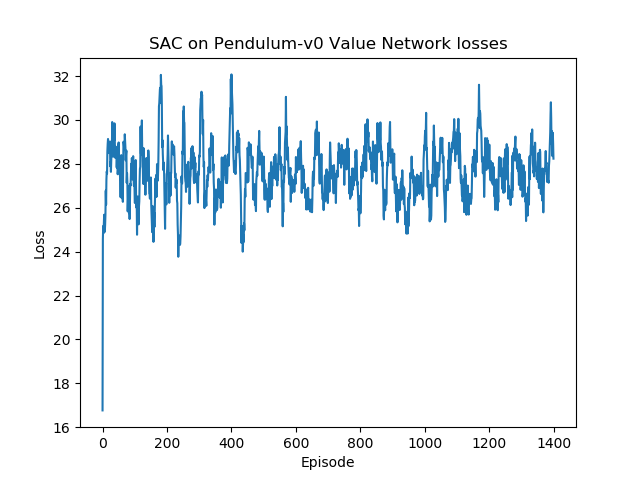
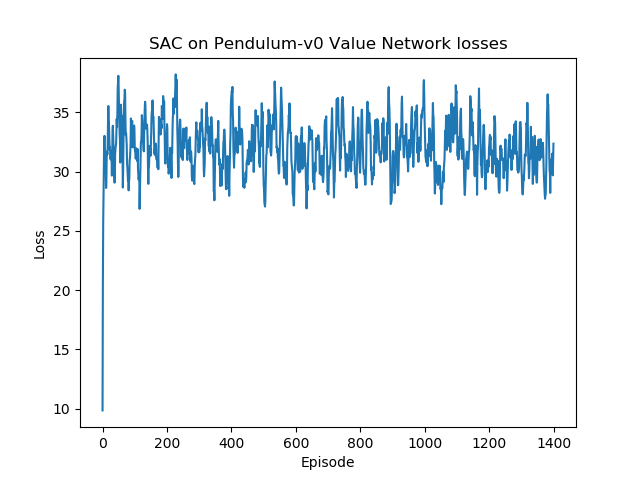
more changes to sac.swift, added script to plot results from different algorithms

diff --git a/sac.swift b/sac.swift
@@ -430,7 +430,7 @@ class SoftActorCritic {
     actionSize: Int,
     critic_lr: Float = 0.0001,
     actor_lr: Float = 0.0001,
-    critic_v_lr: Float = 0.0001,
+    critic_v_lr: Float = 0.00009,
     alpha: Float = 0.2,
     gamma: Float = 0.95) {
       self.actor_network = actor
@@ -452,7 +452,7 @@ class SoftActorCritic {
       self.critic_q1_optimizer = Adam(for: self.critic_q1, learningRate: critic_lr)
       self.critic_q2_optimizer = Adam(for: self.critic_q2, learningRate: critic_lr)
       self.critic_v_optimizer = Adam(for: self.critic_v_network, learningRate: critic_v_lr)
-      self.replayBuffer = ReplayBuffer(capacity: 2000, combined: true)
+      self.replayBuffer = ReplayBuffer(capacity: 1100, combined: true)
   }
 
   func remember(state: Tensor<Float>, action: Tensor<Float>, reward: Tensor<Float>, next_state: Tensor<Float>, dones: Tensor<Bool>) {
@@ -703,11 +703,11 @@ func evaluate_agent(agent: SoftActorCritic, env: TensorFlowEnvironmentWrapper, n
 let env = TensorFlowEnvironmentWrapper(gym.make("Pendulum-v0"))
 env.set_environment_seed(seed: 1001)
 let max_action: Tensor<Float> = Tensor<Float>(2.0)
-let actor_net: GaussianActorNetwork = GaussianActorNetwork(state_size: 3, action_size: 1, hiddenLayerSizes: [300, 200], maximum_action:max_action)
-let critic_q1: CriticQNetwork = CriticQNetwork(state_size: 3, action_size: 1, hiddenLayerSizes: [300, 200], outDimension: 1)
-let critic_q2: CriticQNetwork = CriticQNetwork(state_size: 3, action_size: 1, hiddenLayerSizes: [300, 200], outDimension: 1)
-let critic_v: CriticVNetwork = CriticVNetwork(state_size: 3, hiddenLayerSizes:[300, 200], outDimension: 1)
-let critic_v_target: CriticVNetwork = CriticVNetwork(state_size: 3, hiddenLayerSizes:[300, 200], outDimension: 1)
+let actor_net: GaussianActorNetwork = GaussianActorNetwork(state_size: 3, action_size: 1, hiddenLayerSizes: [400, 300], maximum_action:max_action)
+let critic_q1: CriticQNetwork = CriticQNetwork(state_size: 3, action_size: 1, hiddenLayerSizes: [400, 300], outDimension: 1)
+let critic_q2: CriticQNetwork = CriticQNetwork(state_size: 3, action_size: 1, hiddenLayerSizes: [400, 300], outDimension: 1)
+let critic_v: CriticVNetwork = CriticVNetwork(state_size: 3, hiddenLayerSizes:[400, 300], outDimension: 1)
+let critic_v_target: CriticVNetwork = CriticVNetwork(state_size: 3, hiddenLayerSizes:[400, 300], outDimension: 1)
 
 let actor_critic: SoftActorCritic = SoftActorCritic(actor: actor_net,
                                                     critic_1: critic_q1,
@@ -722,7 +722,7 @@ let(totalRewards, movingAvgReward, actor_losses, critic_1_losses, critic_2_losse
         batchSize: 32,
         stepsPerEpisode: 200,
         tau: 0.005,
-        update_every: 10,
+        update_every: 50,
         epsilonStart: 0.99,
         epsilonDecay: 150)
 

diff --git a/ddpg.swift b/ddpg.swift
@@ -583,7 +583,7 @@ plt.ylabel("Smoothed Episode Reward")
 plt.savefig("results/rewards/pendulum-ddpgsmoothedreward-huberloss.png")
 plt.clf()
 let avgRewards_arr = np.array(movingAvgReward)
-np.save("results/rewards/pendulum-ddpgavgreward-1.npy", avgRewards_arr)
+np.save("results/rewards/pendulum-ddpgavgreward-huberloss.npy", avgRewards_arr)
 
 //save actor and critic losses
 plt.plot(critic_losses)

diff --git a/compare_algos.py b/compare_algos.py
@@ -1,0 +1,33 @@
+import numpy as np
+import matplotlib.pyplot as plt
+import sys
+
+
+
+def plot_reward_results(algo_1_arr, algo_2_arr, algo_1_name, algo_2_name, title="Comparison"):
+    plt.figure()
+    plt.plot(algo_1_arr, "-b", label=algo_1_name)
+    plt.plot(algo_2_arr, "-r", label=algo_2_name)
+    figure_title = algo_1_name + " vs " + algo_2_name + " average rewards during training"
+    plt.title(figure_title)
+    plt.xlabel("Episode")
+    plt.ylabel("Reward")
+    plt.legend()
+    plt.show()
+
+
+def main():
+    if len(sys.argv) < 5:
+        print("Usage: python compare_algos.py <algo 1 reward file> <algo 2 reward file> <algo 1 name> <algo 2 name>")
+        exit()
+
+    algo_1_file = sys.argv[1]
+    algo_2_file = sys.argv[2]
+    algo_1_name = sys.argv[3]
+    algo_2_name = sys.argv[4]
+    algo_1_arr = np.load(algo_1_file)
+    algo_2_arr = np.load(algo_2_file)
+    plot_reward_results(algo_1_arr, algo_2_arr, algo_1_name, algo_2_name)
+
+if __name__ == '__main__':
+    main()
